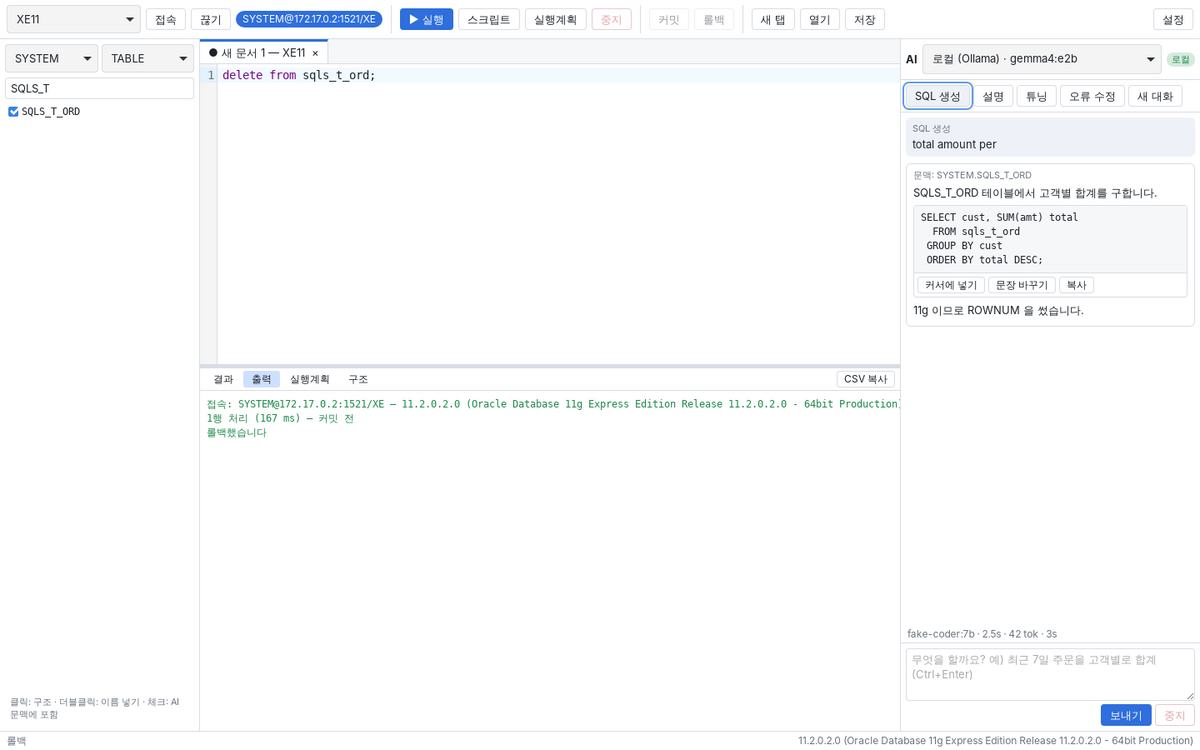
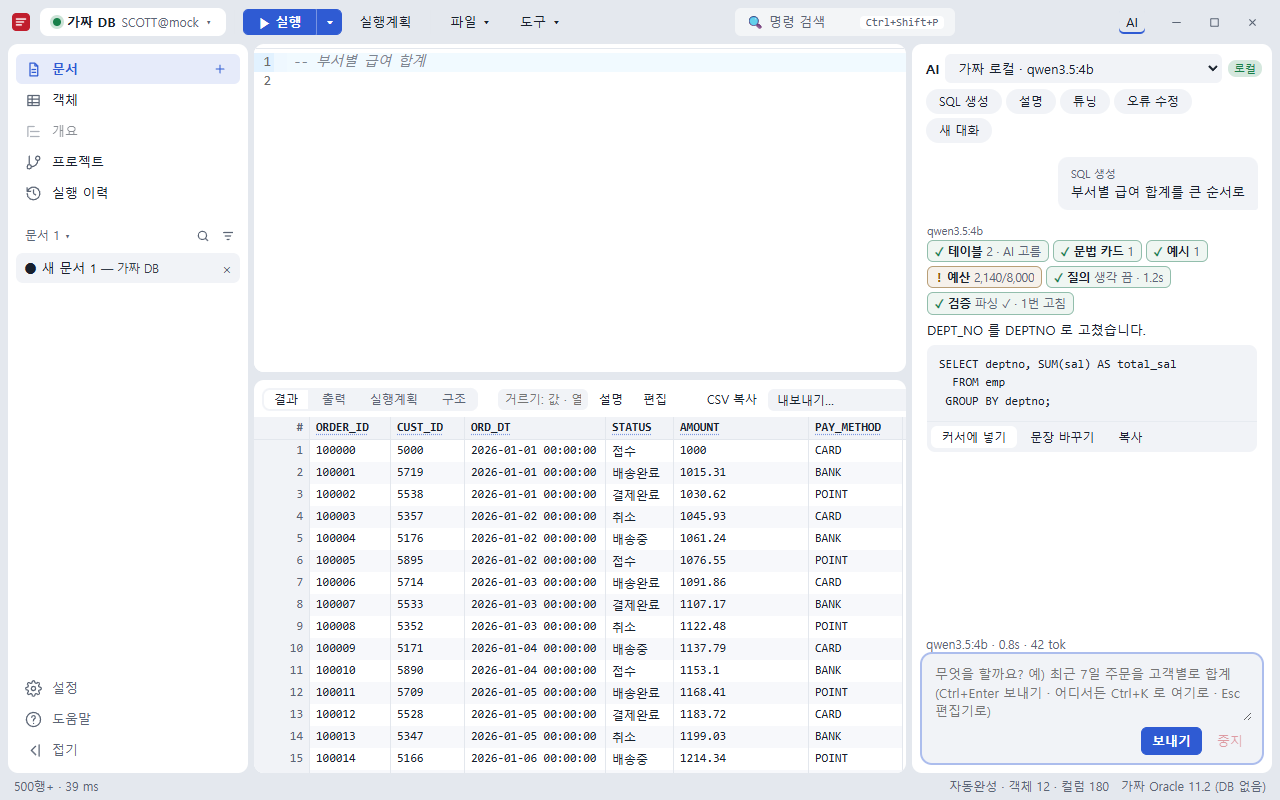
README 스크린샷을 가짜 DB 모드로 다시 찍음
- 결과 그리드·AI 패널·실행계획 3장 (지금 디자인: 왼쪽 메뉴, 객체 목록)
- 캡션: 가짜 DB 모드(npm run mock)로 찍었다고 밝힘
- 가짜 실행계획을 DBMS_XPLAN 꼴로 (조인·GROUP BY·ORDER BY·조건 정보)

Claude-Session: https://claude.ai/code/session_0175gUWiAtU3V4soYgv3deeh

diff --git a/app/src/mock/ipc.ts b/app/src/mock/ipc.ts
@@ -303,8 +303,7 @@ const DB: Record<string, (a: Args) => unknown> = {
   abandon: () => null,
   commit: () => { txn = false; return null; },
   rollback: () => { txn = false; return null; },
-  explain: (a) => ["Plan hash value: 1234567890 (가짜)", "", "| Id | Operation         | Name |", "|  0 | SELECT STATEMENT  |      |",
-    `|  1 |  TABLE ACCESS FULL| ${/\bFROM\s+([\w$#.]+)/i.exec(a.sql as string)?.[1]?.toUpperCase() ?? "?"} |`],
+  explain: (a) => mockPlan(String(a.sql)),
   count_rows: (a) => ({ rows: String(findTable(/\bFROM\s+([\w$#."]+)/i.exec(a.sql as string)?.[1] ?? "")?.count ?? 1), elapsed_ms: 3 }),
   list_schemas: () => ["SCOTT", "HR"],
   list_objects: (a) => {
@@ -625,6 +624,41 @@ const MOCK_UNIT = {
       facts: MOCK_FACTS([{ name: "EMP", ops: "RU", lines: [25, 33] }]) },
   ],
 };
+
+/** DBMS_XPLAN 꼴의 가짜 실행계획 — 조인·GROUP BY·ORDER BY 를 보고 줄을 만든다 */
+function mockPlan(sql: string): string[] {
+  const tables = [...sql.matchAll(/\b(?:FROM|JOIN)\s+([\w$#."]+)/gi)].map((m) => m[1].replace(/"/g, "").split(".").pop()!.toUpperCase());
+  const rowsOf = (t: string) => findTable(t)?.count ?? 100;
+  const order = /\bORDER\s+BY\b/i.test(sql);
+  const group = /\bGROUP\s+BY\b/i.test(sql);
+  const ops: { op: string; name: string; rows: number }[] = [{ op: "SELECT STATEMENT", name: "", rows: 0 }];
+  const n = Math.max(1, ...tables.map(rowsOf));
+  const out = group ? Math.ceil(n / 12) : n;
+  let d = 1;
+  if (order) ops.push({ op: `${" ".repeat(d++)}SORT ORDER BY`, name: "", rows: out });
+  if (group) ops.push({ op: `${" ".repeat(d++)}HASH GROUP BY`, name: "", rows: out });
+  const join = tables.length >= 2 ? d : -1;
+  if (tables.length >= 2) {
+    ops.push({ op: `${" ".repeat(d++)}HASH JOIN`, name: "", rows: n });
+    ops.push({ op: `${" ".repeat(d)}TABLE ACCESS FULL`, name: tables[0], rows: rowsOf(tables[0]) });
+    ops.push({ op: `${" ".repeat(d)}TABLE ACCESS FULL`, name: tables[1], rows: rowsOf(tables[1]) });
+  } else ops.push({ op: `${" ".repeat(d)}TABLE ACCESS FULL`, name: tables[0] ?? "DUAL", rows: n });
+  ops[0].rows = out;
+  const row = (id: string, op: string, name: string, rows: string, bytes: string, cost: string, time: string) =>
+    `| ${id.padStart(3)} | ${op.padEnd(26)} | ${name.padEnd(11)} | ${rows.padStart(5)} | ${bytes.padStart(6)} | ${cost.padStart(11)} | ${time.padEnd(8)} |`;
+  const head = row("Id", "Operation", "Name", "Rows", "Bytes", "Cost (%CPU)", "Time").replace("|  Id |", "| Id  |");
+  const line = "-".repeat(head.length);
+  const body = ops.map((x, i) => row(String(i), x.op, x.name, String(x.rows), String(x.rows * 26), `${4 + (ops.length - i) * 3}   (${i <= 1 ? 25 : 0})`, "00:00:01"));
+  const key = tables[0] === "ORDERS" || tables[1] === "ORDERS" ? "ORDER_ID" : "DEPTNO";
+  return [
+    `Plan hash value: ${2944128587 + sql.length * 7919}`, "", line,
+    head, line,
+    ...body, line, "",
+    ...(join >= 0 ? ["Predicate Information (identified by operation id):", "---------------------------------------------------", "",
+      `   ${join} - access("${tables[0].slice(0, 1)}"."${key}"="${tables[1].slice(0, 1)}"."${key}")`, ""] : []),
+    "Note", "-----", "   - 가짜 DB 모드: 실행계획 모양만 흉내 낸 것입니다",
+  ];
+}
 
 function banner(where: string) {
   const b = document.createElement("div");

diff --git a/README.md b/README.md
@@ -12,7 +12,7 @@ SQLLM combines the database tools developers already need with AI that understan
 |---|---|---|
 | ![grid](docs/images/grid.png) | ![ai](docs/images/ai.png) | ![plan](docs/images/plan.png) |
 
-<sub>Screenshots are from the real app connected to Oracle 11g XE. AI responses come from a test model.</sub>
+<sub>Screenshots are from the app in fake-DB mode (`npm run mock`, no Oracle needed) — sample tables, a simulated execution plan and canned AI answers.</sub>
 
 > 한국어 문서: [README.ko.md](README.ko.md)
 

diff --git a/README.ko.md b/README.ko.md
@@ -10,7 +10,7 @@ AI 는 로컬 LLM(Ollama, LM Studio, vLLM)과 프론티어 모델(Claude, OpenAI
 |---|---|---|
 | ![grid](docs/images/grid.png) | ![ai](docs/images/ai.png) | ![plan](docs/images/plan.png) |
 
-<sub>화면은 Oracle 11g XE 에 붙인 실제 앱이다. AI 답은 테스트용 가짜 모델이 낸 것이다.</sub>
+<sub>화면은 가짜 DB 모드(`npm run mock`, Oracle 없이)로 찍었다 — 예제 테이블, 흉내 낸 실행계획, 미리 정해 둔 AI 답.</sub>
 
 ---
 
